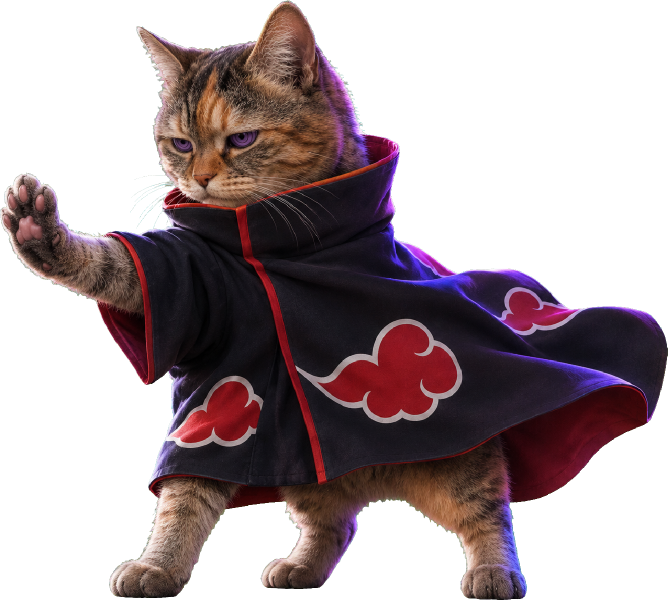
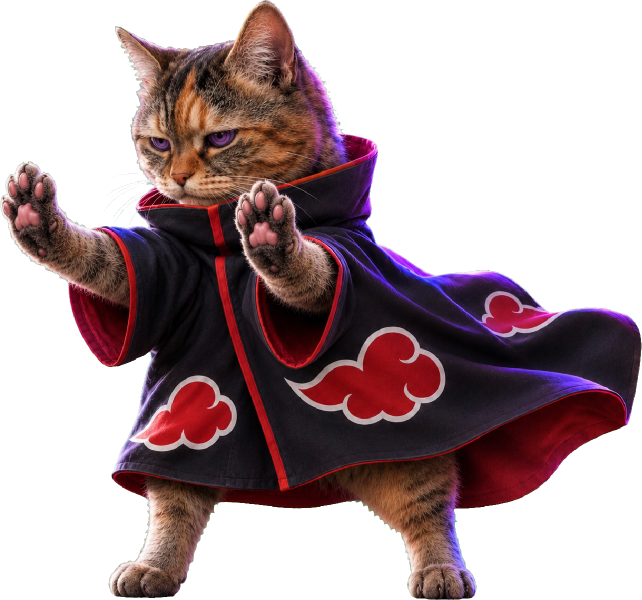
Ver 496: Anime Lab Mewing vs Depressed: Pain now casts Shinra Tensei with both front paws pushed forward

Changed region(s): [[0.0, 0.0, 1.0, 1.0], [0.7477, 0.69, 0.81, 0.72]]

diff --git a/index.html b/index.html
@@ -35,7 +35,7 @@
 .mm-version{position:absolute;left:14px;bottom:12px;z-index:5;font:8px 'Press Start 2P',monospace;color:rgba(70,50,30,.6);pointer-events:none;letter-spacing:1px}
 #bootTip{font-size:9px;opacity:.75;min-height:12px;text-align:center;padding:0 16px}
 </style>
-<link rel="stylesheet" href="css/game.css?v=495">
+<link rel="stylesheet" href="css/game.css?v=496">
 
 </head>
 <body>
@@ -637,13 +637,13 @@
   </div>
 </div>
 
-<script>window.GAME_VERSION={build:495,at:"16:28 · 03/11/2026"};   // tools/release.py tự tăng số bản + ghi giờ mỗi lần đẩy lên</script>
-<script src="js/asset-groups.js?v=495"></script>
-<script src="js/boot.js?v=495"></script>
-<script src="js/vendor/proton/proton.min.js?v=495"></script>
-<script src="js/vendor/d3-delaunay/d3-delaunay.min.js?v=495"></script>   <!-- 🪨 d3-delaunay (ISC) — chia mảnh Voronoi cho sàn vỡ (_floorShatter) -->   <!-- 🎆 Proton — engine hạt 2D (MIT), bọc trong VfxGL.parts -->
-<script src="js/vendor/pixi-filters/glsl.js?v=495"></script>   <!-- 🧩 37 bộ lọc GLSL của pixi-filters (MIT) — chạy qua VfxGL.filter / VfxGL.fx -->
-<script src="js/vfx-gl.js?v=495"></script>   <!-- ✨ hiệu ứng sinh bằng shader (aura lửa, sóng bóp méo…) dùng chung game + phim — xem skill tao-vfx -->
+<script>window.GAME_VERSION={build:496,at:"16:29 · 03/11/2026"};   // tools/release.py tự tăng số bản + ghi giờ mỗi lần đẩy lên</script>
+<script src="js/asset-groups.js?v=496"></script>
+<script src="js/boot.js?v=496"></script>
+<script src="js/vendor/proton/proton.min.js?v=496"></script>
+<script src="js/vendor/d3-delaunay/d3-delaunay.min.js?v=496"></script>   <!-- 🪨 d3-delaunay (ISC) — chia mảnh Voronoi cho sàn vỡ (_floorShatter) -->   <!-- 🎆 Proton — engine hạt 2D (MIT), bọc trong VfxGL.parts -->
+<script src="js/vendor/pixi-filters/glsl.js?v=496"></script>   <!-- 🧩 37 bộ lọc GLSL của pixi-filters (MIT) — chạy qua VfxGL.filter / VfxGL.fx -->
+<script src="js/vfx-gl.js?v=496"></script>   <!-- ✨ hiệu ứng sinh bằng shader (aura lửa, sóng bóp méo…) dùng chung game + phim — xem skill tao-vfx -->
 <button id="mbMenuBtn" onclick="mbToggleMenu()" title="Menu">☰</button>
 </body>
 </html>

diff --git a/js/film-mvd.js b/js/film-mvd.js
@@ -134,7 +134,7 @@
           if(fly>0) K.smoke(F,{x:x-40,z:0,t0:T.s13,n:6,spread:30,rise:10,life:0.5,size:20,seed:120,a:0.35,tint:'150,90,220'}); } }
       // SHINRA TENSEI: vòng dồn lực co vào quanh Pain, rồi bức tường đẩy lao sang trái
       if(t>=T.s12 && t<T.s13){ for(let i=0;i<3;i++){ const ph=((t-T.s12)*1.6+i/3)%1; K.ring(F,d.x-40,0,300*(1-ph)+20,8,ph*0.8,'235,225,255'); } }
-      if(t>=T.s13 && t<T.hit+0.05){ const fly=ein(seg(t,T.s13,T.hit)), _dbc=K.prep(I.dB), _dbw=_dbc?H*1.15*_dbc.sw/_dbc.sh:100, xw=lerp(DX+(0.041-0.5)*_dbw-10,0,fly), P=K.proj(F.B,xw,H*1.15*0.655,0);
+      if(t>=T.s13 && t<T.hit+0.05){ const fly=ein(seg(t,T.s13,T.hit)), _dbc=K.prep(I.dB), _dbw=_dbc?H*1.15*_dbc.sw/_dbc.sh:100, xw=lerp(DX+(0.039-0.5)*_dbw-10,0,fly), P=K.proj(F.B,xw,H*1.15*0.661,0);
         if(P) F.list.push({d:P.d-40, fn:()=>{ const g=F.g, ry=150*P.s, rx=46*P.s; g.save(); g.globalCompositeOperation='lighter';
           const gr=g.createRadialGradient(P.x,P.y,0,P.x,P.y,ry); gr.addColorStop(0,'rgba(255,255,255,0)'); gr.addColorStop(0.7,'rgba(220,215,255,0.18)'); gr.addColorStop(0.92,'rgba(255,255,255,0.7)'); gr.addColorStop(1,'rgba(255,255,255,0)');
           g.translate(P.x,P.y); g.scale(rx/ry,1); g.translate(-P.x,-P.y); g.fillStyle=gr; g.beginPath(); g.arc(P.x,P.y,ry,0,Math.PI*2); g.fill(); g.restore(); }});

diff --git a/CLAUDE.md b/CLAUDE.md
@@ -193,7 +193,7 @@ Mục tiêu anh đặt: Claude dựng được ~70–75% cảnh bất kỳ anh y
 ## 🧪 Anime Lab · Mewing Cat vs Depressed Cat (3/11/2026) — `js/film-mvd.js` (cine-kit, id `mvd`, 9:16, 28.5s)
 - Anh: fight 25–30s cực cháy, chuyển cảnh anime, tung chiêu liên tục, kết bằng 2 chiêu cuối hất 2 con lùi — NGANG TÀI NGANG SỨC. Chiêu bám game:
   Mewing (tư thế mewing → tượng Moai, dạng Gojo, HOLLOW PURPLE) vs Depressed (mây/mưa/sét, dạng Pain, SHINRA TENSEI, mưa đứng hình khi hoá Pain).
-- Ảnh: bán thân có sẵn cho 0–20s; 4 ảnh toàn thân anh vẽ ChatGPT (3/11, chân mèo thật) `assets/img/cine/MVD_*`: GOJO_BLAST (đệm chân 95.1%/40%), PAIN_PUSH (4.1%/34.5%), GOJO_KB, PAIN_KB
+- Ảnh: bán thân có sẵn cho 0–20s; 4 ảnh toàn thân anh vẽ ChatGPT (3/11, chân mèo thật) `assets/img/cine/MVD_*`: GOJO_BLAST (đệm chân 95.1%/40%), PAIN_PUSH (2 chân đẩy, đệm chân trước 3.9%/33.9%; ảnh 1 chân bị lỗi tư thế → anh vẽ lại), GOJO_KB, PAIN_KB
   → Hollow Purple sinh ở đệm chân Gojo, tường Shinra từ đệm chân Pain, hất văng dùng ảnh KB; đứng dậy cuối phim dùng ảnh thường (anh bỏ ảnh thở dốc: "vẫn nhẹ nhàng"). Lệnh vẽ luôn ghi rõ chân mèo thật, không tay người.
 - Khung dọc hẹp: hất văng chỉ tới ±170 (máy dist 740), cảnh kết 2 con tiến lại ±128 rồi quay chính diện.
 
